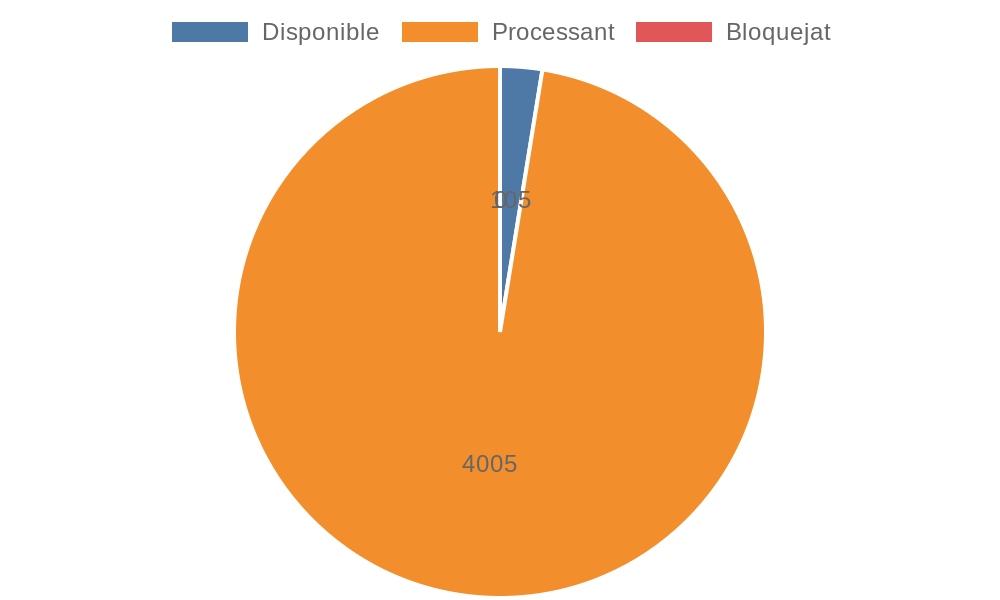
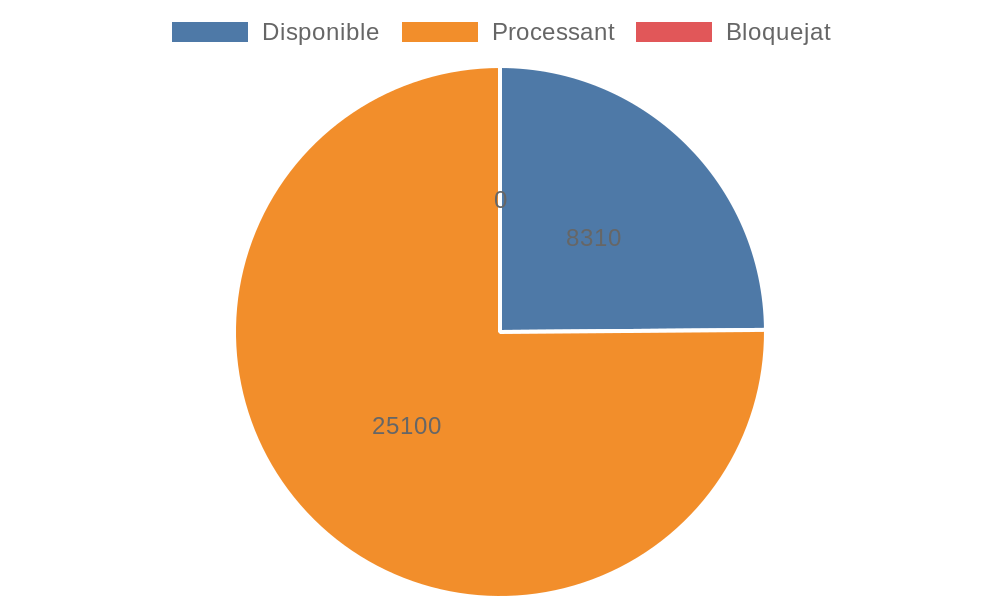
Soluciona un petit bug

Changed region(s): [[0.496, 0.12, 0.775, 0.57], [0.465, 0.75, 0.527, 0.78], [0.372, 0.69, 0.434, 0.72]]

diff --git a/Assets/Scripts/Objectes/ProcessadorScript.cs b/Assets/Scripts/Objectes/ProcessadorScript.cs
@@ -253,30 +253,8 @@ public class ProcessadorScript : LlibreriaObjectes, ITractarEsdeveniment
                     GameObject entitat = e.ObteEntitatImplicada();
                     ++nEntitatsTractades;
                     entitatsProcessant.Remove(entitat);
-                    if (entitatsAEnviar.Count > 0){
-                        //CercaDisponible();
-                        entitatsAEnviar.Enqueue(entitat);
-                        estat = estats.BLOQUEJAT;
-                    } else {
-                        int nDisponible = CercaDisponible();
-                        if (nDisponible != -1){
-                            ++nEntitatsEnviades;
-                            SeguentsObjectes[nDisponible].GetComponent<LlibreriaObjectes>().RepEntitat(entitat, this.gameObject);
-                            if (entitatsProcessant.Count == 0) estat = estats.DISPONIBLE;
-                            else estat = estats.PROCESSANT;
-
-                            while (objectesRebutjats.Count != 0) {
-                                // A la funcio AvisaDisponibilitat es fa un Dequeue del objectesRebutjats
-                                if (AvisaDisponibilitat()) {
-                                    break;
-                                }
-                            }
-
-                        } else {
-                            entitatsAEnviar.Enqueue(entitat);
-                            estat = estats.BLOQUEJAT;
-                        }
-                    }
+                    entitatsAEnviar.Enqueue(entitat);
+                    estat = estats.BLOQUEJAT;
                     string capacitat;
                     if (maxEntitatsParalel == -1) capacitat = "∞";
                     else capacitat = maxEntitatsParalel.ToString();
